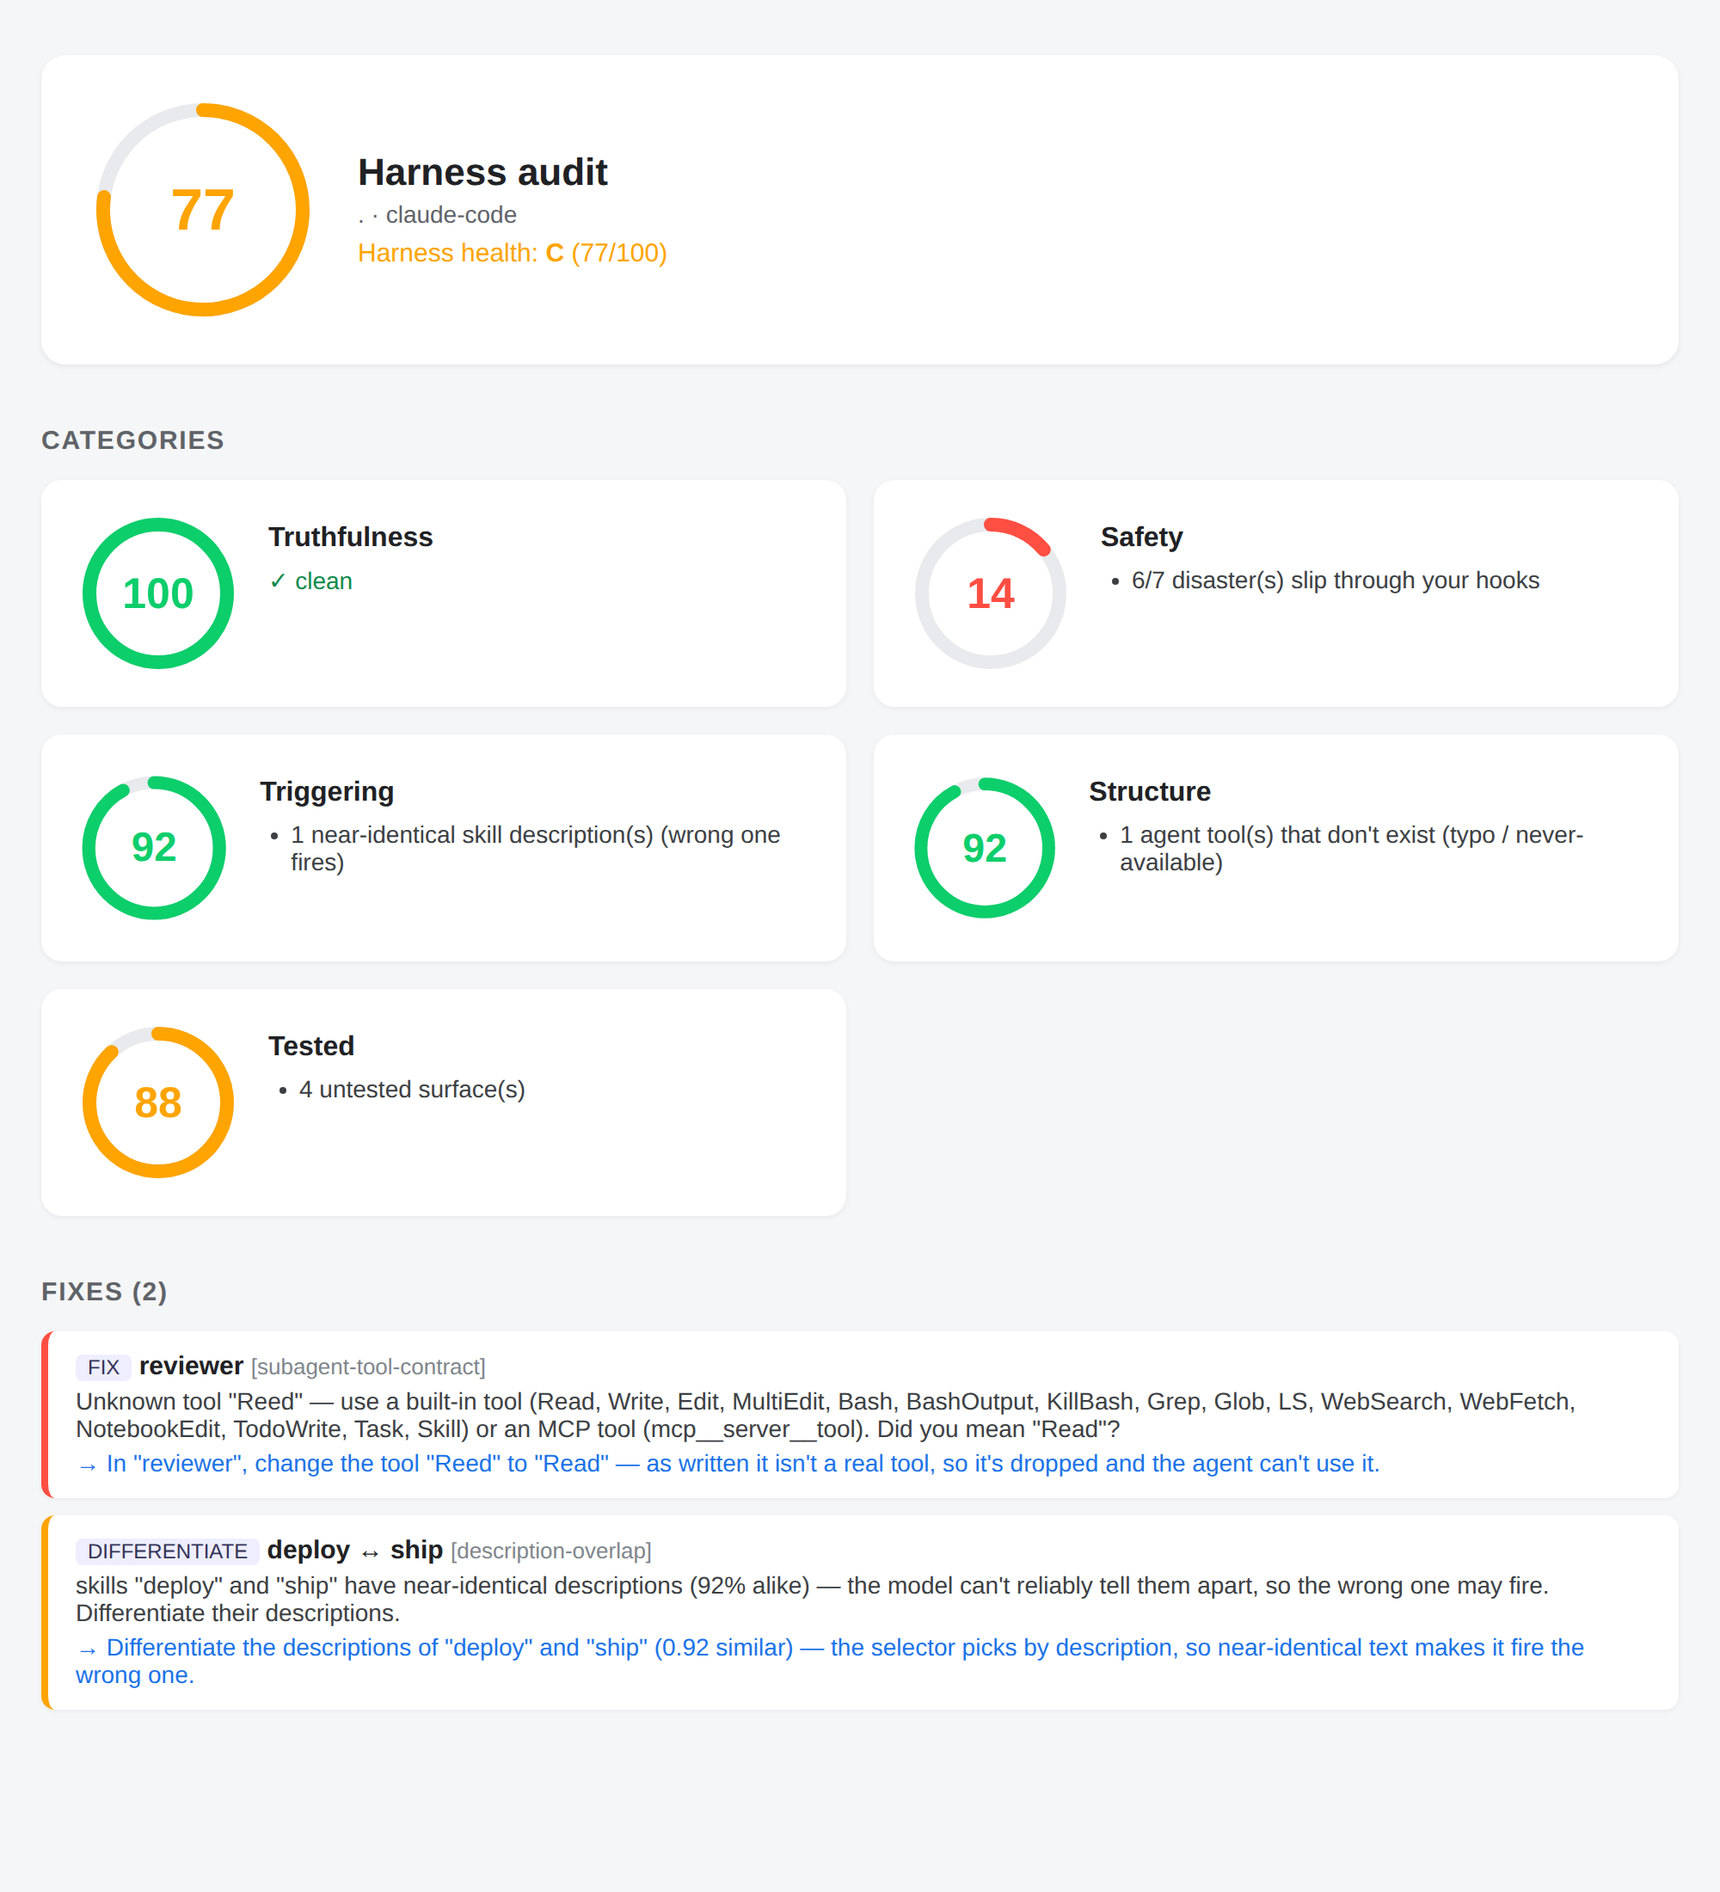
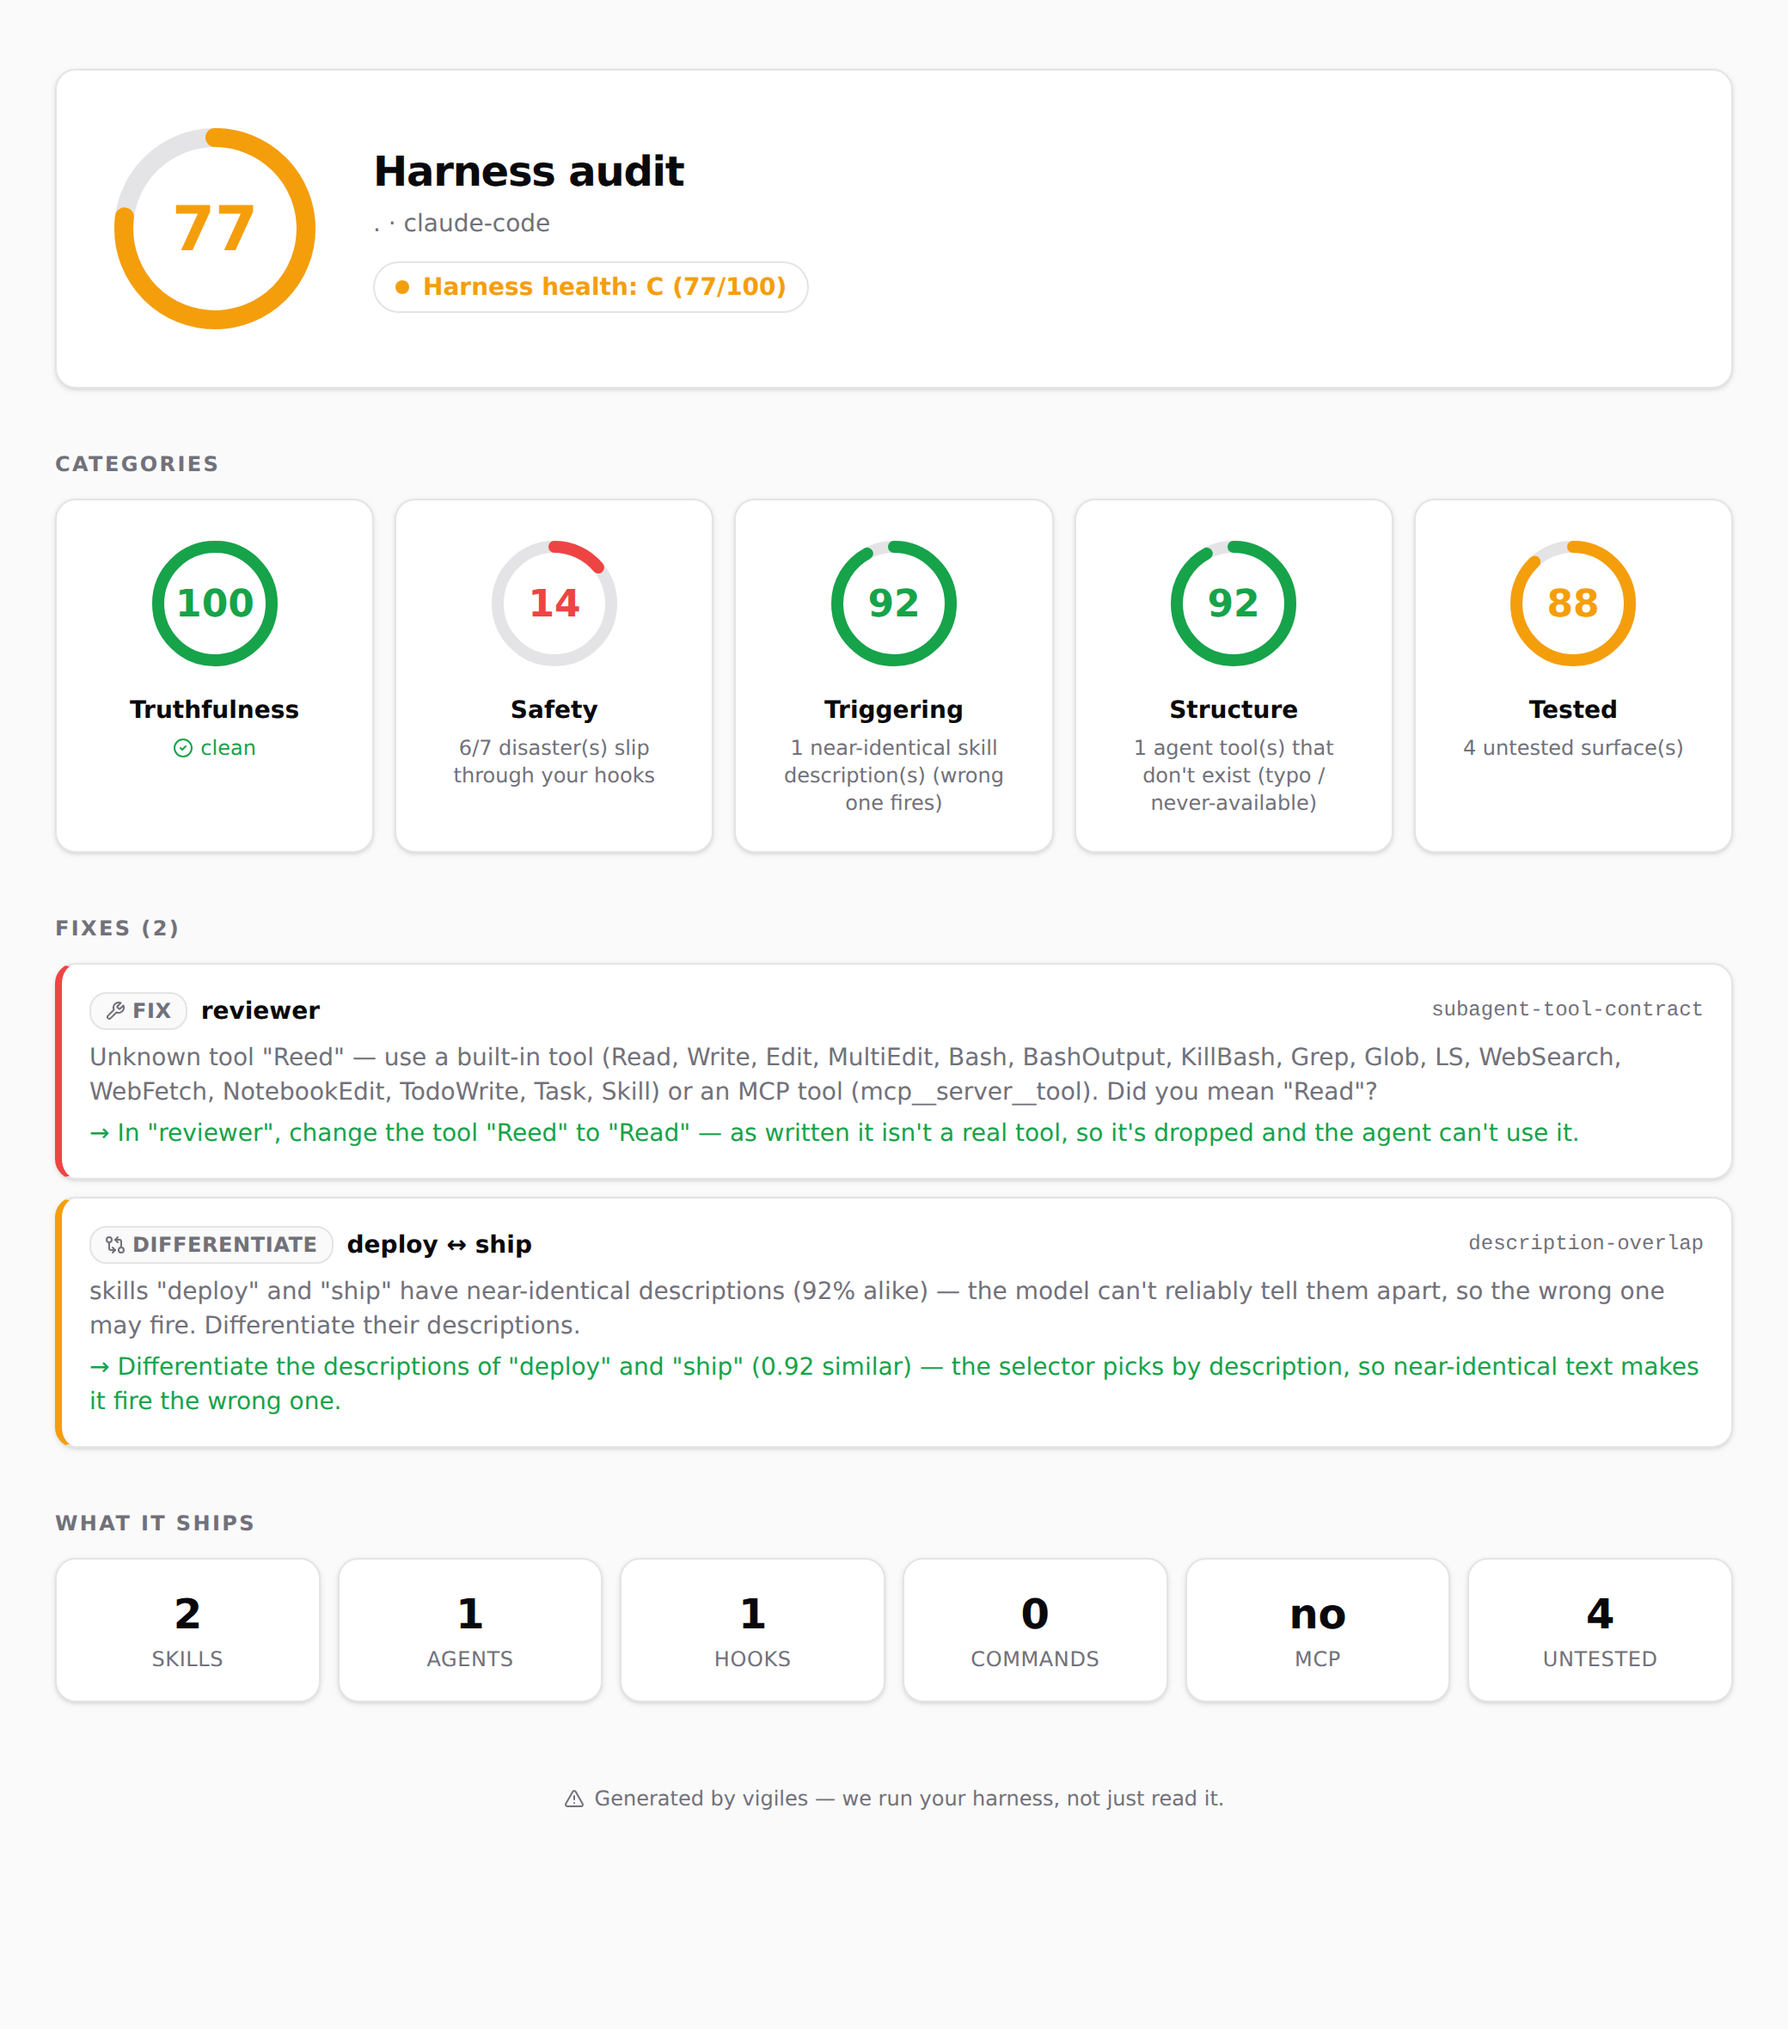
test(audit): pin the AuditReport wire shape + refresh README screenshot
- audit-report.test.ts: pin the AuditReport key shape (meta/score/categories/
  recommendations/inventory) so a field change is CAUGHT and the hand-mirrored
  report/src/schema.ts gets updated in lockstep (the cheap stand-in for a full
  cross-package parity guard).
- README: refresh vigiles-audit.png to the real React/shadcn render (the shipped
  artifact), and confirmed auto light/dark works (prefers-color-scheme).

diff --git a/src/audit-report.test.ts b/src/audit-report.test.ts
@@ -103,4 +103,66 @@ describe("buildAuditReport", () => {
     const safety = withBattery.score.categories.find((c) => c.key === "Safety");
     expect(safety?.score).toBe(100);
   });
+
+  // Contract pin — the report app (report/src/schema.ts) mirrors this shape by
+  // hand and builds independently, so a field added/removed here without updating
+  // the mirror would silently break the report. This pins the wire shape so the
+  // change is CAUGHT; when it fails, update report/src/schema.ts too.
+  it("pins the AuditReport wire shape (mirror report/src/schema.ts on change)", () => {
+    const r = buildAuditReport(
+      makeReport({
+        agents: [
+          {
+            name: "a",
+            tools: ["X"],
+            toolIssues: [{ tool: "X", suggestion: "Y" }],
+            mcpToolIssues: [],
+            disallowedToolIssues: [],
+          },
+        ] as unknown as ScanReport["agents"],
+      }),
+      { harness: "claude-code", vigilesVersion: "1.0.0" },
+    );
+    expect(Object.keys(r).sort()).toEqual([
+      "inventory",
+      "meta",
+      "recommendations",
+      "score",
+    ]);
+    expect(Object.keys(r.meta).sort()).toEqual([
+      "dir",
+      "harness",
+      "schemaVersion",
+      "tool",
+      "vigilesVersion",
+    ]);
+    expect(Object.keys(r.score).sort()).toEqual([
+      "categories",
+      "empty",
+      "grade",
+      "overall",
+    ]);
+    expect(Object.keys(r.score.categories[0]).sort()).toEqual([
+      "findings",
+      "key",
+      "score",
+      "weight",
+    ]);
+    expect(Object.keys(r.recommendations[0]).sort()).toEqual([
+      "action",
+      "confidence",
+      "detector",
+      "fix",
+      "rationale",
+      "surface",
+    ]);
+    expect(Object.keys(r.inventory).sort()).toEqual([
+      "agents",
+      "commands",
+      "hooks",
+      "mcp",
+      "skills",
+      "untested",
+    ]);
+  });
 });
